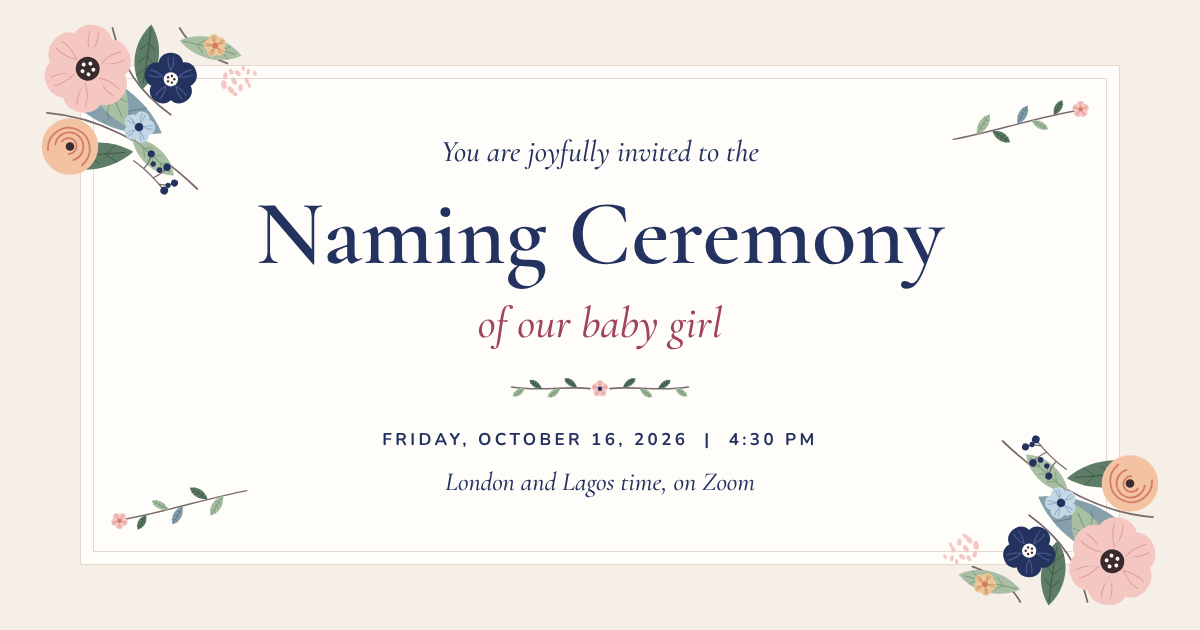
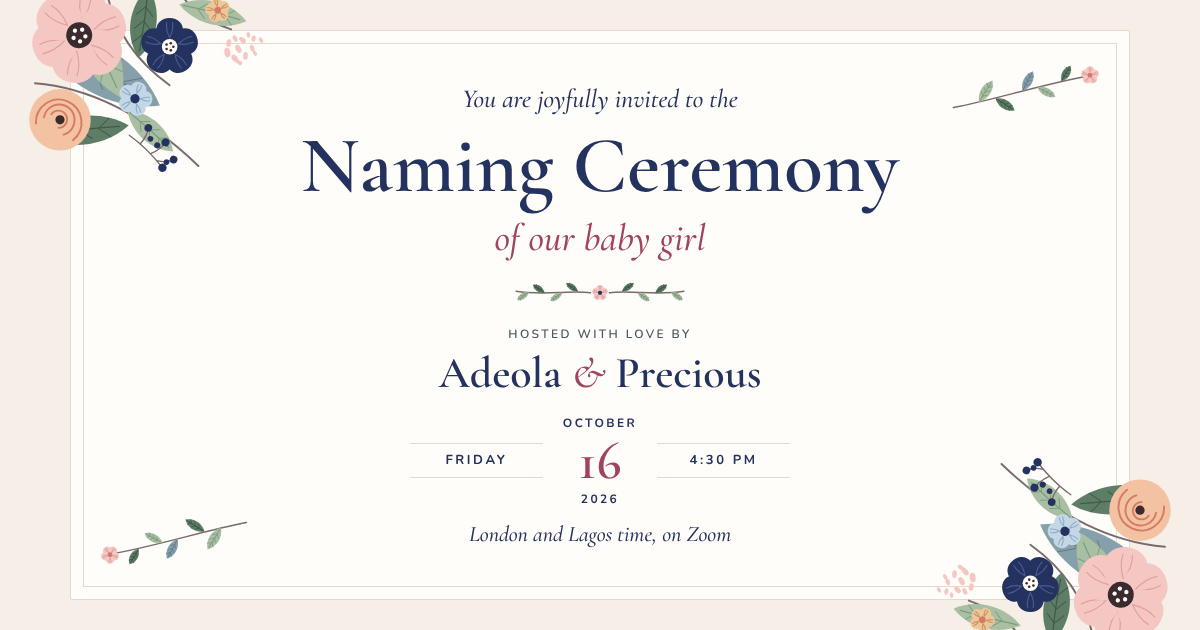
feat: shorten host names and make the share image the invitation card
- The card now reads "Adeola & Precious" on one line.
- The share image is the invitation card laid out at 1200x630: same frame,
  florals, title, hosts and date block, so it shows as a full preview when
  the link is dropped in WhatsApp.
- Drop the "pull up a chair" line from the closing note.

diff --git a/src/components/celebration/invitation-card.tsx b/src/components/celebration/invitation-card.tsx
@@ -65,10 +65,8 @@ const InvitationCard: FC = () => {
           <motion.p
             variants={riseIn}
             custom={reduce}
-            className="mt-3 text-3xl font-semibold leading-tight font-display md:text-4xl text-custom-navy">
-            {hosts[0]}
-            <span className="block my-1 text-2xl italic font-medium text-custom-rose">&amp;</span>
-            {hosts[1]}
+            className="mt-3 text-4xl font-semibold leading-tight font-display md:text-5xl text-custom-navy">
+            {hosts[0]} <span className="italic font-medium text-custom-rose">&amp;</span> {hosts[1]}
           </motion.p>
 
           <motion.time

diff --git a/src/components/celebration/note-section.tsx b/src/components/celebration/note-section.tsx
@@ -17,8 +17,7 @@ const NoteSection: FC = () => {
         <SectionTitle>A note from us</SectionTitle>
         <motion.p variants={riseIn} custom={reduce} className="text-lg leading-relaxed md:text-xl">
           Our little girl has filled our home with so much joy. We can&rsquo;t wait to name her
-          surrounded by the people who have loved us, prayed for us and cheered us on. Wherever you
-          are in the world, pull up a chair and celebrate with us.
+          surrounded by the people who have loved us, prayed for us and cheered us on.
         </motion.p>
         <motion.p
           variants={riseIn}

diff --git a/src/constants/naming-ceremony.ts b/src/constants/naming-ceremony.ts
@@ -19,7 +19,7 @@ const ZOOM: ZoomDetails = {
 };
 
 export const NAMING_CEREMONY = {
-  hosts: ['Adeola Adeyemo', 'Precious Ikem'],
+  hosts: ['Adeola', 'Precious'],
   pageUrl: PAGE_URL,
   ogImageUrl: 'https://deolaj.com/celebration/naming-ceremony-og.png',
   // 4:30 pm in London (BST) and Lagos (WAT), which are both UTC+1 on this date.
